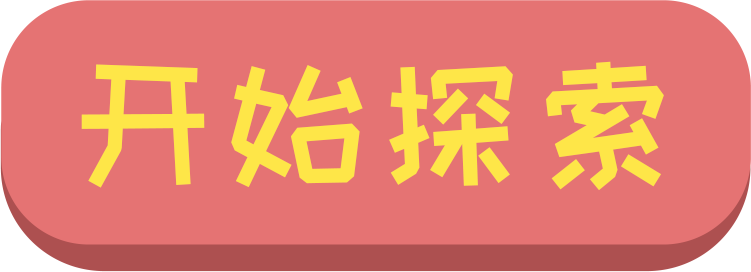
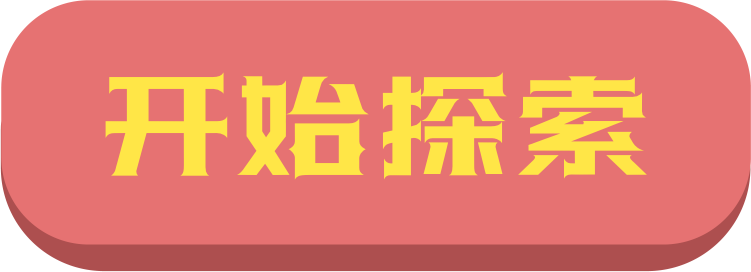
replaced resources

Changed region(s): [[0.0919, 0.2059, 0.8881, 0.7059]]

diff --git a/app.js b/app.js
@@ -179,7 +179,7 @@ eval("__webpack_require__.r(__webpack_exports__);\n/* harmony import */ var erud
 /***/ ((__unused_webpack_module, __webpack_exports__, __webpack_require__) => {
 
 "use strict";
-eval("__webpack_require__.r(__webpack_exports__);\n/* harmony export */ __webpack_require__.d(__webpack_exports__, {\n/* harmony export */   \"default\": () => (__WEBPACK_DEFAULT_EXPORT__)\n/* harmony export */ });\n/* harmony default export */ const __WEBPACK_DEFAULT_EXPORT__ = ({\"countries_bg\": {\"path\": \"./images/3/countries_bg.png\", \"size\": 2533751}, \"countries_flags\": {\"path\": \"./images/3/countries_flags.png\", \"size\": 206600}, \"countries_glow\": {\"path\": \"./images/3/countries_glow.png\", \"size\": 640029}, \"intro_button\": {\"path\": \"./images/1/intro_button.png\", \"size\": 31900}, \"intro_title\": {\"path\": \"./images/1/intro_title.png\", \"size\": 219419}, \"intro_slogan\": {\"path\": \"./images/1/intro_slogan.png\", \"size\": 33302}, \"intro_button_pressed\": {\"path\": \"./images/1/intro_button_pressed.png\", \"size\": 37442}, \"intro_stars\": {\"path\": \"./images/1/intro_stars.png\", \"size\": 35788}, \"share_pattern_screen\": {\"path\": \"./images/5/share_pattern_screen.png\", \"size\": 480034}, \"share_base_header\": {\"path\": \"./images/5/share_base_header.png\", \"size\": 70349}, \"share_top_header\": {\"path\": \"./images/5/share_top_header.png\", \"size\": 91579}, \"share_base\": {\"path\": \"./images/5/share_base.png\", \"size\": 4859}, \"share_flags\": {\"path\": \"./images/5/share_flags.png\", \"size\": 311763}, \"share_top_footer\": {\"path\": \"./images/5/share_top_footer.png\", \"size\": 66921}, \"share_base_footer\": {\"path\": \"./images/5/share_base_footer.png\", \"size\": 57218}, \"bgcolor\": {\"path\": \"./images/0/bgcolor.png\", \"size\": 5241}, \"hex_bold\": {\"path\": \"./images/0/hex_bold.png\", \"size\": 493694}, \"hex_thin\": {\"path\": \"./images/0/hex_thin.png\", \"size\": 223783}, \"glow\": {\"path\": \"./images/0/glow.png\", \"size\": 965977}, \"donebutton_pressed\": {\"path\": \"./images/0/donebutton_pressed.png\", \"size\": 3224}, \"donebutton\": {\"path\": \"./images/0/donebutton.png\", \"size\": 3732}, \"choices_10x10\": {\"path\": \"./images/2/choices_10x10.png\", \"size\": 8870636}, \"choices_header\": {\"path\": \"./images/2/choices_header.png\", \"size\": 57826}, \"choices_hint\": {\"path\": \"./images/2/choices_hint.png\", \"size\": 3302}, \"choices_delete\": {\"path\": \"./images/2/choices_delete.png\", \"size\": 6605}, \"choices_scroll\": {\"path\": \"./images/2/choices_scroll.png\", \"size\": 3182}});\n\n//# sourceURL=webpack://csaegress-h5-app/./app/resource-loader/image_resource_list.js?");
+eval("__webpack_require__.r(__webpack_exports__);\n/* harmony export */ __webpack_require__.d(__webpack_exports__, {\n/* harmony export */   \"default\": () => (__WEBPACK_DEFAULT_EXPORT__)\n/* harmony export */ });\n/* harmony default export */ const __WEBPACK_DEFAULT_EXPORT__ = ({\"countries_bg\": {\"path\": \"./images/3/countries_bg.png\", \"size\": 2533751}, \"countries_flags\": {\"path\": \"./images/3/countries_flags.png\", \"size\": 206600}, \"intro_button\": {\"path\": \"./images/1/intro_button.png\", \"size\": 25341}, \"intro_title\": {\"path\": \"./images/1/intro_title.png\", \"size\": 219419}, \"intro_slogan\": {\"path\": \"./images/1/intro_slogan.png\", \"size\": 12731}, \"intro_button_pressed\": {\"path\": \"./images/1/intro_button_pressed.png\", \"size\": 24249}, \"intro_stars\": {\"path\": \"./images/1/intro_stars.png\", \"size\": 35788}, \"generate_button_pressed\": {\"path\": \"./images/4/generate_button_pressed.png\", \"size\": 23125}, \"generate_button\": {\"path\": \"./images/4/generate_button.png\", \"size\": 26288}, \"share_pattern_screen\": {\"path\": \"./images/5/share_pattern_screen.png\", \"size\": 480034}, \"share_base_header\": {\"path\": \"./images/5/share_base_header.png\", \"size\": 70349}, \"share_top_header\": {\"path\": \"./images/5/share_top_header.png\", \"size\": 91579}, \"share_base\": {\"path\": \"./images/5/share_base.png\", \"size\": 4859}, \"share_flags\": {\"path\": \"./images/5/share_flags.png\", \"size\": 311763}, \"share_top_footer\": {\"path\": \"./images/5/share_top_footer.png\", \"size\": 171083}, \"share_base_footer\": {\"path\": \"./images/5/share_base_footer.png\", \"size\": 27533}, \"bgcolor\": {\"path\": \"./images/0/bgcolor.png\", \"size\": 5241}, \"hex_bold\": {\"path\": \"./images/0/hex_bold.png\", \"size\": 494464}, \"hex_thin\": {\"path\": \"./images/0/hex_thin.png\", \"size\": 167780}, \"icon_glow\": {\"path\": \"./images/0/icon_glow.png\", \"size\": 20673}, \"glow\": {\"path\": \"./images/0/glow.png\", \"size\": 1178024}, \"donebutton_pressed\": {\"path\": \"./images/0/donebutton_pressed.png\", \"size\": 3224}, \"donebutton\": {\"path\": \"./images/0/donebutton.png\", \"size\": 3732}, \"choices_10x10\": {\"path\": \"./images/2/choices_10x10.png\", \"size\": 8870636}, \"choices_header\": {\"path\": \"./images/2/choices_header.png\", \"size\": 57826}, \"choices_hint\": {\"path\": \"./images/2/choices_hint.png\", \"size\": 3302}, \"choices_delete\": {\"path\": \"./images/2/choices_delete.png\", \"size\": 6605}, \"choices_scroll\": {\"path\": \"./images/2/choices_scroll.png\", \"size\": 3182}});\n\n//# sourceURL=webpack://csaegress-h5-app/./app/resource-loader/image_resource_list.js?");
 
 /***/ }),
 
@@ -267,7 +267,7 @@ eval("__webpack_require__.r(__webpack_exports__);\n/* harmony export */ __webpac
 /***/ ((__unused_webpack_module, __webpack_exports__, __webpack_require__) => {
 
 "use strict";
-eval("__webpack_require__.r(__webpack_exports__);\n/* harmony export */ __webpack_require__.d(__webpack_exports__, {\n/* harmony export */   \"default\": () => (__WEBPACK_DEFAULT_EXPORT__)\n/* harmony export */ });\n/* harmony import */ var app_constants_js__WEBPACK_IMPORTED_MODULE_0__ = __webpack_require__(/*! app/constants.js */ \"./app/constants.js\");\n\nconst events = __webpack_require__(/*! events */ \"./node_modules/events/events.js\");\n\n\n\nclass CountryButton extends events.EventEmitter{\n    /*\n     *      |<--size-->|\n     *      +----------+----------+----------+ --|\n     *      |   col 0  |   col 1  |  col 2   |   | size\n     *      +----------+----------+----------+ --|\n     *      |          |          |          |\n     *      +----------+----------+----------+\n     *      |          |          |          |\n     *      +----------+----------+----------+\n     *      |          |          |          |\n     *      +----------+----------+----------+\n     */\n\n    constructor({\n        image_glow,\n        text,\n        x, y, // center of hexagon on a scaled map image\n        size, // length of a side for a hexagon\n        controller, // needed to convert from \"user touch coordinate on screen\" to \"absolute coordinate on scaled image\"\n    }){\n        super();\n\n        this.x0 = x;\n        this.y0 = y;\n        this.text = text;\n        this.size = size;\n        this.controller = controller; // CountriesMenuCanvasController\n        this.image_glow = image_glow;\n\n        const w1 = size * 0.8660254;\n        this.polygon = [\n            [x + w1, y+size/2],\n            [x, y + size],\n            [x - w1, y+size/2],\n            [x - w1, y-size/2],\n            [x, y - size],\n            [x + w1, y-size/2],\n        ];\n\n        this.image_glow_size = (this.size * 2) * 1.3;\n        \n        // If this option is choosen\n        this.choosen = false;\n    }\n\n    draw(ctx){\n        if(!this.choosen) return;\n\n        ctx.drawImage(\n            this.image_glow,\n            this.x0 + this.controller.map_draw_x - this.image_glow_size / 2,\n            this.y0 - this.image_glow_size / 2,\n            this.image_glow_size,\n            this.image_glow_size\n        );\n\n    }\n\n    is_within_area(x, y){\n        // x & y is screen coordinate, the X coordinate must be converted\n        // to image coordinate, by substracting it with the offset of image\n        // left border.\n        // Since the image left border is dragable by user touch, we have to\n        // use the controller's actual value of this offset. \n        x -= this.controller.map_draw_x;\n\n//        console.log(x, y);\n\n        // Special calculation for a hexagon\n        // ray-casting algorithm based on\n        // https://wrf.ecse.rpi.edu/Research/Short_Notes/pnpoly.html/pnpoly.html\n        var inside = false;\n        var vs = this.polygon;\n        for (var i = 0, j = vs.length - 1; i < vs.length; j = i++) {\n            var xi = vs[i][0], yi = vs[i][1];\n            var xj = vs[j][0], yj = vs[j][1];\n            \n            var intersect = ((yi > y) != (yj > y))\n                && (x < (xj - xi) * (y - yi) / (yj - yi) + xi);\n            if (intersect) inside = !inside;\n        }\n        \n        return inside;\n    }\n\n    handle_click(x, y){\n        if(!this.is_within_area(x, y)) return;\n        this.choosen = !this.choosen;\n\n        if(this.choosen){\n            this.emit(\"choosen\", this.text);\n        }\n    }\n\n\n\n}\n\n\n\n\n/* harmony default export */ const __WEBPACK_DEFAULT_EXPORT__ = (CountryButton);\n\n\n//# sourceURL=webpack://csaegress-h5-app/./app/stages/03-countries/CountryButton.js?");
+eval("__webpack_require__.r(__webpack_exports__);\n/* harmony export */ __webpack_require__.d(__webpack_exports__, {\n/* harmony export */   \"default\": () => (__WEBPACK_DEFAULT_EXPORT__)\n/* harmony export */ });\n/* harmony import */ var app_constants_js__WEBPACK_IMPORTED_MODULE_0__ = __webpack_require__(/*! app/constants.js */ \"./app/constants.js\");\n\nconst events = __webpack_require__(/*! events */ \"./node_modules/events/events.js\");\n\n\n\nclass CountryButton extends events.EventEmitter{\n    /*\n     *      |<--size-->|\n     *      +----------+----------+----------+ --|\n     *      |   col 0  |   col 1  |  col 2   |   | size\n     *      +----------+----------+----------+ --|\n     *      |          |          |          |\n     *      +----------+----------+----------+\n     *      |          |          |          |\n     *      +----------+----------+----------+\n     *      |          |          |          |\n     *      +----------+----------+----------+\n     */\n\n    constructor({\n        image_glow,\n        text,\n        x, y, // center of hexagon on a scaled map image\n        size, // length of a side for a hexagon\n        controller, // needed to convert from \"user touch coordinate on screen\" to \"absolute coordinate on scaled image\"\n    }){\n        super();\n\n        this.x0 = x;\n        this.y0 = y;\n        this.text = text;\n        this.size = size;\n        this.controller = controller; // CountriesMenuCanvasController\n        this.image_glow = image_glow;\n\n        const w1 = size * 0.8660254;\n        this.polygon = [\n            [x + w1, y+size/2],\n            [x, y + size],\n            [x - w1, y+size/2],\n            [x - w1, y-size/2],\n            [x, y - size],\n            [x + w1, y-size/2],\n        ];\n\n        this.image_glow_size_h = (this.size * 2) * 1.32;\n        this.image_glow_size_w = \n            this.image_glow_size_h / this.image_glow.height\n            * this.image_glow.width\n        ;\n        \n        // If this option is choosen\n        this.choosen = false;\n    }\n\n    draw(ctx){\n        if(!this.choosen) return;\n\n        ctx.drawImage(\n            this.image_glow,\n            this.x0 + this.controller.map_draw_x - this.image_glow_size_w / 2,\n            this.y0 - this.image_glow_size_h / 2,\n            this.image_glow_size_w,\n            this.image_glow_size_h\n        );\n\n    }\n\n    is_within_area(x, y){\n        // x & y is screen coordinate, the X coordinate must be converted\n        // to image coordinate, by substracting it with the offset of image\n        // left border.\n        // Since the image left border is dragable by user touch, we have to\n        // use the controller's actual value of this offset. \n        x -= this.controller.map_draw_x;\n\n//        console.log(x, y);\n\n        // Special calculation for a hexagon\n        // ray-casting algorithm based on\n        // https://wrf.ecse.rpi.edu/Research/Short_Notes/pnpoly.html/pnpoly.html\n        var inside = false;\n        var vs = this.polygon;\n        for (var i = 0, j = vs.length - 1; i < vs.length; j = i++) {\n            var xi = vs[i][0], yi = vs[i][1];\n            var xj = vs[j][0], yj = vs[j][1];\n            \n            var intersect = ((yi > y) != (yj > y))\n                && (x < (xj - xi) * (y - yi) / (yj - yi) + xi);\n            if (intersect) inside = !inside;\n        }\n        \n        return inside;\n    }\n\n    handle_click(x, y){\n        if(!this.is_within_area(x, y)) return;\n        this.choosen = !this.choosen;\n\n        if(this.choosen){\n            this.emit(\"choosen\", this.text);\n        }\n    }\n\n\n\n}\n\n\n\n\n/* harmony default export */ const __WEBPACK_DEFAULT_EXPORT__ = (CountryButton);\n\n\n//# sourceURL=webpack://csaegress-h5-app/./app/stages/03-countries/CountryButton.js?");
 
 /***/ }),
 
@@ -278,7 +278,7 @@ eval("__webpack_require__.r(__webpack_exports__);\n/* harmony export */ __webpac
 /***/ ((__unused_webpack_module, __webpack_exports__, __webpack_require__) => {
 
 "use strict";
-eval("__webpack_require__.r(__webpack_exports__);\n/* harmony export */ __webpack_require__.d(__webpack_exports__, {\n/* harmony export */   \"default\": () => (__WEBPACK_DEFAULT_EXPORT__)\n/* harmony export */ });\n/* harmony import */ var app_debug_js__WEBPACK_IMPORTED_MODULE_0__ = __webpack_require__(/*! app/debug.js */ \"./app/debug.js\");\n/* harmony import */ var app_content_js__WEBPACK_IMPORTED_MODULE_1__ = __webpack_require__(/*! app/content.js */ \"./app/content.js\");\n/* harmony import */ var app_constants_js__WEBPACK_IMPORTED_MODULE_2__ = __webpack_require__(/*! app/constants.js */ \"./app/constants.js\");\n/* harmony import */ var app_utils__WEBPACK_IMPORTED_MODULE_3__ = __webpack_require__(/*! app/utils */ \"./app/utils/index.js\");\n/* harmony import */ var app_canvascontrol_js__WEBPACK_IMPORTED_MODULE_4__ = __webpack_require__(/*! app/canvascontrol.js */ \"./app/canvascontrol.js\");\n/* harmony import */ var app_canvas_widgets_button_js__WEBPACK_IMPORTED_MODULE_5__ = __webpack_require__(/*! app/canvas-widgets/button.js */ \"./app/canvas-widgets/button.js\");\n/* harmony import */ var _CountryButton_js__WEBPACK_IMPORTED_MODULE_6__ = __webpack_require__(/*! ./CountryButton.js */ \"./app/stages/03-countries/CountryButton.js\");\n/* harmony import */ var _log_js__WEBPACK_IMPORTED_MODULE_7__ = __webpack_require__(/*! ./log.js */ \"./app/stages/03-countries/log.js\");\n/* harmony import */ var app_resource_loader__WEBPACK_IMPORTED_MODULE_8__ = __webpack_require__(/*! app/resource-loader */ \"./app/resource-loader/index.js\");\n\n\n\n\n\n\n\n\n\n\n\n\nconst event_of = __webpack_require__(/*! app/events */ \"./app/events.js\"); \n\n//////////////////////////////////////////////////////////////////////////////\n\n\nclass CountriesMenuCanvasController extends app_canvascontrol_js__WEBPACK_IMPORTED_MODULE_4__[\"default\"] {\n\n    constructor({canvas, images, bgcontroller, callback, callback_done}){\n        super(canvas);\n        const self = this;\n\n        this.canvas = canvas;\n        this.images = images;\n        this.bgcontroller = bgcontroller;\n        this.callback = callback;\n        this.callback_done = callback_done;\n\n        this.logrender = new _log_js__WEBPACK_IMPORTED_MODULE_7__[\"default\"]({ canvas });\n\n        // button ref: horizontal: right, vertical: middle\n        this.button_ref_x = this.canvas.width * 0.563;\n        this.button_ref_y = this.canvas.height * 0.875;\n        this.scale_button = this.canvas.width / this.images[\"button\"].width * 0.25;\n        this.button = new app_canvas_widgets_button_js__WEBPACK_IMPORTED_MODULE_5__[\"default\"]({\n            image: this.images[\"button\"],\n            image_pressed_down: this.images[\"button-down\"],\n            x0: this.button_ref_x - this.scale_button * this.images[\"button\"].width,\n            y0: this.button_ref_y - this.scale_button * this.images[\"button\"].height / 2,\n            x1: this.button_ref_x,\n            y1: this.button_ref_y + this.scale_button * this.images[\"button\"].height / 2,\n        });\n\n        // Determine map size\n        // map image is scaled up or down to fit the height, and its width\n        // is expanded outside the screen\n        this.image_map_scale = this.canvas.height / this.images[\"bg\"].height;\n        this.map_width = this.images[\"bg\"].width * this.image_map_scale; // > screen width\n\n        this.map_draw_x = this.canvas.width / 2 - this.map_width / 2;\n\n\n        // initial country buttons\n        this.country_buttons = [];\n        for(let country_name in app_content_js__WEBPACK_IMPORTED_MODULE_1__.countries){\n            let country_button = new _CountryButton_js__WEBPACK_IMPORTED_MODULE_6__[\"default\"]({\n                image_glow: this.images[\"glow\"],\n                controller: this,\n                text: country_name,\n                x: app_content_js__WEBPACK_IMPORTED_MODULE_1__.countries[country_name][0] * this.image_map_scale,\n                y: app_content_js__WEBPACK_IMPORTED_MODULE_1__.countries[country_name][1] * this.image_map_scale,\n                size: app_constants_js__WEBPACK_IMPORTED_MODULE_2__[\"default\"].COUNTRY_HEXAGON_SIZE * this.image_map_scale,\n            });\n            country_button.on(\"choosen\", (()=>{ return function(){\n                self.logrender.log(`去过${country_name.slice(0,-2)}`);\n            } })());\n            this.country_buttons.push(country_button);\n        }\n\n    }\n\n    _calc_alpha(dt){\n        // Calculate alpha used for country map background, and foreground\n        if(undefined === this.alpha_t_count) this.alpha_t_count = 0;\n\n        const COUNTRY_MAP_TRANSITION_T = app_constants_js__WEBPACK_IMPORTED_MODULE_2__[\"default\"].BACKGROUND_SWITCH_DURATION;\n        const FOREGROUND_TRANSITION_T =  500;\n\n        let t1 = COUNTRY_MAP_TRANSITION_T,\n            t2 = COUNTRY_MAP_TRANSITION_T + FOREGROUND_TRANSITION_T;\n        let t = this.alpha_t_count;\n\n        this.alpha_t_count += dt;\n\n        /*\n        if(t <= t1){\n            return { map_alpha: t / t1, widget_alpha: 0 };\n        } else if (t <= t2){\n            return { map_alpha: 1, widget_alpha: (t - t1) / (t2 - t1) };\n        } else {\n            return { map_alpha: 1, widget_alpha: 1};\n        }*/\n        if(t <= t1){\n            return { map_alpha: t / t1, widget_alpha: t / t1 };\n        } else {\n            return { map_alpha: 1, widget_alpha: 1};\n        }\n    }\n\n    _drag_map(delta){\n\n        const low_bound = this.canvas.width - this.map_width;\n        const upper_bound = 0;\n        \n        this.map_draw_x += delta;\n        if(this.map_draw_x < low_bound){\n            this.map_draw_x = low_bound;\n        }\n        if(this.map_draw_x > upper_bound){\n            this.map_draw_x = upper_bound;\n        }\n\n    }\n\n    _draw_bg(dt){ // bgcontroller color bar\n        this.ctx.drawImage(\n            this.bgcontroller.bgimg,\n            0,  // sx = 0\n            this.bgcontroller.get_y(), // sy = whatever\n            this.bgcontroller.bgimg.width, // sWidth\n            this.bgcontroller.unit_height, // sHeight\n            0,  // dx = 0\n            0,  // dy = 0\n            this.canvas.width,\n            this.canvas.height\n        ); // global background\n    }\n\n    _draw_fg(dt){\n\n        let { map_alpha, widget_alpha } = this._calc_alpha(dt); \n\n        // draw country map\n        this.ctx.globalAlpha = map_alpha;\n        this.ctx.drawImage(\n            this.images[\"bg\"],\n            0, 0, this.images[\"bg\"].width, this.images[\"bg\"].height,\n            this.map_draw_x,\n            0, // sy\n            this.map_width,\n            this.canvas.height\n        );\n\n        // draw country buttons\n        this.ctx.globalAlpha = widget_alpha;\n        this.country_buttons.forEach((cb)=>{\n            cb.draw(this.ctx);\n        });\n\n        this.ctx.drawImage(\n            this.images[\"flags\"],\n            0, 0, this.images[\"flags\"].width, this.images[\"flags\"].height,\n            this.map_draw_x,\n            0, // sy\n            this.map_width,\n            this.canvas.height\n        );\n\n        // draw log\n        this.logrender.draw();\n\n        //draw button\n        this.button.draw(this.ctx);\n\n\n\n        this.ctx.globalAlpha = 1;\n    }\n\n    animation_frame(t, dt){\n        // clear whole canvas\n        this.ctx_clearall();\n        this.ctx_reset_filter();\n        // draw bg\n        this._draw_bg(dt);\n        // draw each icon\n        /*this.options_instances.forEach((oi)=>{\n            oi.next({ delta_y0: this.delta_y0, t, dt });\n        });*/\n        \n        this._draw_fg(dt);\n\n        return true;\n    }\n\n    bind_events(){\n        const ec = event_of(\"canvas\");\n\n        function on_click(x, y){\n            // handle a touch-click or mouseclick event\n            this.country_buttons.forEach((cb)=>cb.handle_click(x, y));\n            let selected_countries = this.country_buttons\n                .filter((cb)=>cb.choosen)\n                .map((cb)=>cb.text)\n            ;\n            try{\n                this.callback(selected_countries);\n            } catch(e){\n            }\n        }\n\n        let touch_tracker = null;\n\n        ec.on(\"touchstart\", (e)=>{\n//            console.log(\"touchstart\", e);\n            \n            touch_tracker = new app_utils__WEBPACK_IMPORTED_MODULE_3__[\"default\"].CanvasGestureTracker();\n            for(let i =0; i<e.changedTouches.length; i++){\n                let t = e.changedTouches[i];\n                touch_tracker.register_down(\n                    t.clientX * app_constants_js__WEBPACK_IMPORTED_MODULE_2__[\"default\"].SCALE_FACTOR,\n                    t.clientY * app_constants_js__WEBPACK_IMPORTED_MODULE_2__[\"default\"].SCALE_FACTOR\n                );\n            }\n\n            e.preventDefault();\n        });\n\n        ec.on(\"touchend\", (e)=>{\n//            console.log(\"touchend\", e.changedTouches);\n            if(!touch_tracker) return;\n            for(let i =0; i<e.changedTouches.length; i++){\n                let t = e.changedTouches[i];\n                touch_tracker.register_up(\n                    t.clientX * app_constants_js__WEBPACK_IMPORTED_MODULE_2__[\"default\"].SCALE_FACTOR,\n                    t.clientY * app_constants_js__WEBPACK_IMPORTED_MODULE_2__[\"default\"].SCALE_FACTOR\n                );\n            };\n\n            let { duration, distance, delta_t } = touch_tracker.result();\n            let touch = e.changedTouches[0];\n\n            if(Math.abs(distance / this.canvas.width) < 0.05){\n                console.log(\"touch press triggered\");\n                on_click.call(\n                    this,\n                    touch.clientX * app_constants_js__WEBPACK_IMPORTED_MODULE_2__[\"default\"].SCALE_FACTOR,\n                    touch.clientY * app_constants_js__WEBPACK_IMPORTED_MODULE_2__[\"default\"].SCALE_FACTOR\n                );\n            }\n\n            touch_tracker = null;\n            e.preventDefault();\n        });\n\n        ec.on(\"touchmove\", (e)=>{\n//            console.log(\"touchmove\", e);\n            if(!touch_tracker) return;\n\n            for(let i =0; i<e.changedTouches.length; i++){\n                let t = e.changedTouches[i];\n                let { delta_x, delta_y, delta_t } = touch_tracker.register_move(\n                    t.clientX * app_constants_js__WEBPACK_IMPORTED_MODULE_2__[\"default\"].SCALE_FACTOR,\n                    t.clientY * app_constants_js__WEBPACK_IMPORTED_MODULE_2__[\"default\"].SCALE_FACTOR\n                );\n                this._drag_map(-delta_x);\n            };\n            e.preventDefault();\n        });\n        \n\n\n        this.button.on(\"pressed\", (e)=>{\n            this.callback_done(\n                this.country_buttons.filter((b)=>b.choosen).map((b)=>b.text));\n            e.preventDefault();\n            e.stopPropagation();\n        });\n\n\n    }\n}\n\n\n\n\n\n\n//////////////////////////////////////////////////////////////////////////////\n\nasync function interaction({\n    canvas,\n    callback,\n    callback_done,\n    bgcontroller,\n    app\n}){\n   \n    const images = {\n        \"bg\": await (0,app_resource_loader__WEBPACK_IMPORTED_MODULE_8__.get_image)(\"countries_bg\"),\n        \"flags\": await (0,app_resource_loader__WEBPACK_IMPORTED_MODULE_8__.get_image)(\"countries_flags\"),\n        \"glow\": await (0,app_resource_loader__WEBPACK_IMPORTED_MODULE_8__.get_image)(\"countries_glow\"),\n        \"button\": await (0,app_resource_loader__WEBPACK_IMPORTED_MODULE_8__.get_image)(\"donebutton\"),\n        \"button-down\": await (0,app_resource_loader__WEBPACK_IMPORTED_MODULE_8__.get_image)(\"donebutton_pressed\"),\n    };\n\n    const canvascontrol = new CountriesMenuCanvasController({\n        canvas,\n        images,\n        bgcontroller,\n        callback,\n        callback_done,\n    });\n    canvascontrol.start_animation();\n\n///////////////\n    if((0,app_debug_js__WEBPACK_IMPORTED_MODULE_0__[\"default\"])()){\n        if((0,app_debug_js__WEBPACK_IMPORTED_MODULE_0__[\"default\"])('stage') && (0,app_debug_js__WEBPACK_IMPORTED_MODULE_0__[\"default\"])('stage') > 3){\n            callback_done();\n        }\n    }\n//////////////\n    \n    await app_utils__WEBPACK_IMPORTED_MODULE_3__[\"default\"].until(()=>app.countries_done === true);\n\n    bgcontroller.scroll_to_stage(3);\n    await canvascontrol.destroy();\n\n}\n\n\n\n\n//////////////////////////////////////////////////////////////////////////////\n/* harmony default export */ const __WEBPACK_DEFAULT_EXPORT__ = ({\n    interaction,\n});\n\n\n//# sourceURL=webpack://csaegress-h5-app/./app/stages/03-countries/index.js?");
+eval("__webpack_require__.r(__webpack_exports__);\n/* harmony export */ __webpack_require__.d(__webpack_exports__, {\n/* harmony export */   \"default\": () => (__WEBPACK_DEFAULT_EXPORT__)\n/* harmony export */ });\n/* harmony import */ var app_debug_js__WEBPACK_IMPORTED_MODULE_0__ = __webpack_require__(/*! app/debug.js */ \"./app/debug.js\");\n/* harmony import */ var app_content_js__WEBPACK_IMPORTED_MODULE_1__ = __webpack_require__(/*! app/content.js */ \"./app/content.js\");\n/* harmony import */ var app_constants_js__WEBPACK_IMPORTED_MODULE_2__ = __webpack_require__(/*! app/constants.js */ \"./app/constants.js\");\n/* harmony import */ var app_utils__WEBPACK_IMPORTED_MODULE_3__ = __webpack_require__(/*! app/utils */ \"./app/utils/index.js\");\n/* harmony import */ var app_canvascontrol_js__WEBPACK_IMPORTED_MODULE_4__ = __webpack_require__(/*! app/canvascontrol.js */ \"./app/canvascontrol.js\");\n/* harmony import */ var app_canvas_widgets_button_js__WEBPACK_IMPORTED_MODULE_5__ = __webpack_require__(/*! app/canvas-widgets/button.js */ \"./app/canvas-widgets/button.js\");\n/* harmony import */ var _CountryButton_js__WEBPACK_IMPORTED_MODULE_6__ = __webpack_require__(/*! ./CountryButton.js */ \"./app/stages/03-countries/CountryButton.js\");\n/* harmony import */ var _log_js__WEBPACK_IMPORTED_MODULE_7__ = __webpack_require__(/*! ./log.js */ \"./app/stages/03-countries/log.js\");\n/* harmony import */ var app_resource_loader__WEBPACK_IMPORTED_MODULE_8__ = __webpack_require__(/*! app/resource-loader */ \"./app/resource-loader/index.js\");\n\n\n\n\n\n\n\n\n\n\n\n\nconst event_of = __webpack_require__(/*! app/events */ \"./app/events.js\"); \n\n//////////////////////////////////////////////////////////////////////////////\n\n\nclass CountriesMenuCanvasController extends app_canvascontrol_js__WEBPACK_IMPORTED_MODULE_4__[\"default\"] {\n\n    constructor({canvas, images, bgcontroller, callback, callback_done}){\n        super(canvas);\n        const self = this;\n\n        this.canvas = canvas;\n        this.images = images;\n        this.bgcontroller = bgcontroller;\n        this.callback = callback;\n        this.callback_done = callback_done;\n\n        this.logrender = new _log_js__WEBPACK_IMPORTED_MODULE_7__[\"default\"]({ canvas });\n\n        // button ref: horizontal: right, vertical: middle\n        this.button_ref_x = this.canvas.width * 0.563;\n        this.button_ref_y = this.canvas.height * 0.875;\n        this.scale_button = this.canvas.width / this.images[\"button\"].width * 0.25;\n        this.button = new app_canvas_widgets_button_js__WEBPACK_IMPORTED_MODULE_5__[\"default\"]({\n            image: this.images[\"button\"],\n            image_pressed_down: this.images[\"button-down\"],\n            x0: this.button_ref_x - this.scale_button * this.images[\"button\"].width,\n            y0: this.button_ref_y - this.scale_button * this.images[\"button\"].height / 2,\n            x1: this.button_ref_x,\n            y1: this.button_ref_y + this.scale_button * this.images[\"button\"].height / 2,\n        });\n\n        // Determine map size\n        // map image is scaled up or down to fit the height, and its width\n        // is expanded outside the screen\n        this.image_map_scale = this.canvas.height / this.images[\"bg\"].height;\n        this.map_width = this.images[\"bg\"].width * this.image_map_scale; // > screen width\n\n        this.map_draw_x = this.canvas.width / 2 - this.map_width / 2;\n\n\n        // initial country buttons\n        this.country_buttons = [];\n        for(let country_name in app_content_js__WEBPACK_IMPORTED_MODULE_1__.countries){\n            let country_button = new _CountryButton_js__WEBPACK_IMPORTED_MODULE_6__[\"default\"]({\n                image_glow: this.images[\"glow\"],\n                controller: this,\n                text: country_name,\n                x: app_content_js__WEBPACK_IMPORTED_MODULE_1__.countries[country_name][0] * this.image_map_scale,\n                y: app_content_js__WEBPACK_IMPORTED_MODULE_1__.countries[country_name][1] * this.image_map_scale,\n                size: app_constants_js__WEBPACK_IMPORTED_MODULE_2__[\"default\"].COUNTRY_HEXAGON_SIZE * this.image_map_scale,\n            });\n            country_button.on(\"choosen\", (()=>{ return function(){\n                self.logrender.log(`去过${country_name.slice(0,-2)}`);\n            } })());\n            this.country_buttons.push(country_button);\n        }\n\n    }\n\n    _calc_alpha(dt){\n        // Calculate alpha used for country map background, and foreground\n        if(undefined === this.alpha_t_count) this.alpha_t_count = 0;\n\n        const COUNTRY_MAP_TRANSITION_T = app_constants_js__WEBPACK_IMPORTED_MODULE_2__[\"default\"].BACKGROUND_SWITCH_DURATION;\n        const FOREGROUND_TRANSITION_T =  500;\n\n        let t1 = COUNTRY_MAP_TRANSITION_T,\n            t2 = COUNTRY_MAP_TRANSITION_T + FOREGROUND_TRANSITION_T;\n        let t = this.alpha_t_count;\n\n        this.alpha_t_count += dt;\n\n        /*\n        if(t <= t1){\n            return { map_alpha: t / t1, widget_alpha: 0 };\n        } else if (t <= t2){\n            return { map_alpha: 1, widget_alpha: (t - t1) / (t2 - t1) };\n        } else {\n            return { map_alpha: 1, widget_alpha: 1};\n        }*/\n        if(t <= t1){\n            return { map_alpha: t / t1, widget_alpha: t / t1 };\n        } else {\n            return { map_alpha: 1, widget_alpha: 1};\n        }\n    }\n\n    _drag_map(delta){\n\n        const low_bound = this.canvas.width - this.map_width;\n        const upper_bound = 0;\n        \n        this.map_draw_x += delta;\n        if(this.map_draw_x < low_bound){\n            this.map_draw_x = low_bound;\n        }\n        if(this.map_draw_x > upper_bound){\n            this.map_draw_x = upper_bound;\n        }\n\n    }\n\n    _draw_bg(dt){ // bgcontroller color bar\n        this.ctx.drawImage(\n            this.bgcontroller.bgimg,\n            0,  // sx = 0\n            this.bgcontroller.get_y(), // sy = whatever\n            this.bgcontroller.bgimg.width, // sWidth\n            this.bgcontroller.unit_height, // sHeight\n            0,  // dx = 0\n            0,  // dy = 0\n            this.canvas.width,\n            this.canvas.height\n        ); // global background\n    }\n\n    _draw_fg(dt){\n\n        let { map_alpha, widget_alpha } = this._calc_alpha(dt); \n\n        // draw country map\n        this.ctx.globalAlpha = map_alpha;\n        this.ctx.drawImage(\n            this.images[\"bg\"],\n            0, 0, this.images[\"bg\"].width, this.images[\"bg\"].height,\n            this.map_draw_x,\n            0, // sy\n            this.map_width,\n            this.canvas.height\n        );\n\n        // draw country buttons\n        this.ctx.globalAlpha = widget_alpha;\n        this.country_buttons.forEach((cb)=>{\n            cb.draw(this.ctx);\n        });\n\n        this.ctx.drawImage(\n            this.images[\"flags\"],\n            0, 0, this.images[\"flags\"].width, this.images[\"flags\"].height,\n            this.map_draw_x,\n            0, // sy\n            this.map_width,\n            this.canvas.height\n        );\n\n        // draw log\n        this.logrender.draw();\n\n        //draw button\n        this.button.draw(this.ctx);\n\n\n\n        this.ctx.globalAlpha = 1;\n    }\n\n    animation_frame(t, dt){\n        // clear whole canvas\n        this.ctx_clearall();\n        this.ctx_reset_filter();\n        // draw bg\n        this._draw_bg(dt);\n        // draw each icon\n        /*this.options_instances.forEach((oi)=>{\n            oi.next({ delta_y0: this.delta_y0, t, dt });\n        });*/\n        \n        this._draw_fg(dt);\n\n        return true;\n    }\n\n    bind_events(){\n        const ec = event_of(\"canvas\");\n\n        function on_click(x, y){\n            // handle a touch-click or mouseclick event\n            this.country_buttons.forEach((cb)=>cb.handle_click(x, y));\n            let selected_countries = this.country_buttons\n                .filter((cb)=>cb.choosen)\n                .map((cb)=>cb.text)\n            ;\n            try{\n                this.callback(selected_countries);\n            } catch(e){\n            }\n        }\n\n        let touch_tracker = null;\n\n        ec.on(\"touchstart\", (e)=>{\n//            console.log(\"touchstart\", e);\n            \n            touch_tracker = new app_utils__WEBPACK_IMPORTED_MODULE_3__[\"default\"].CanvasGestureTracker();\n            for(let i =0; i<e.changedTouches.length; i++){\n                let t = e.changedTouches[i];\n                touch_tracker.register_down(\n                    t.clientX * app_constants_js__WEBPACK_IMPORTED_MODULE_2__[\"default\"].SCALE_FACTOR,\n                    t.clientY * app_constants_js__WEBPACK_IMPORTED_MODULE_2__[\"default\"].SCALE_FACTOR\n                );\n            }\n\n            e.preventDefault();\n        });\n\n        ec.on(\"touchend\", (e)=>{\n//            console.log(\"touchend\", e.changedTouches);\n            if(!touch_tracker) return;\n            for(let i =0; i<e.changedTouches.length; i++){\n                let t = e.changedTouches[i];\n                touch_tracker.register_up(\n                    t.clientX * app_constants_js__WEBPACK_IMPORTED_MODULE_2__[\"default\"].SCALE_FACTOR,\n                    t.clientY * app_constants_js__WEBPACK_IMPORTED_MODULE_2__[\"default\"].SCALE_FACTOR\n                );\n            };\n\n            let { duration, distance, delta_t } = touch_tracker.result();\n            let touch = e.changedTouches[0];\n\n            if(Math.abs(distance / this.canvas.width) < 0.05){\n                console.log(\"touch press triggered\");\n                on_click.call(\n                    this,\n                    touch.clientX * app_constants_js__WEBPACK_IMPORTED_MODULE_2__[\"default\"].SCALE_FACTOR,\n                    touch.clientY * app_constants_js__WEBPACK_IMPORTED_MODULE_2__[\"default\"].SCALE_FACTOR\n                );\n            }\n\n            touch_tracker = null;\n            e.preventDefault();\n        });\n\n        ec.on(\"touchmove\", (e)=>{\n//            console.log(\"touchmove\", e);\n            if(!touch_tracker) return;\n\n            for(let i =0; i<e.changedTouches.length; i++){\n                let t = e.changedTouches[i];\n                let { delta_x, delta_y, delta_t } = touch_tracker.register_move(\n                    t.clientX * app_constants_js__WEBPACK_IMPORTED_MODULE_2__[\"default\"].SCALE_FACTOR,\n                    t.clientY * app_constants_js__WEBPACK_IMPORTED_MODULE_2__[\"default\"].SCALE_FACTOR\n                );\n                this._drag_map(-delta_x);\n            };\n            e.preventDefault();\n        });\n        \n\n\n        this.button.on(\"pressed\", (e)=>{\n            this.callback_done(\n                this.country_buttons.filter((b)=>b.choosen).map((b)=>b.text));\n            e.preventDefault();\n            e.stopPropagation();\n        });\n\n\n    }\n}\n\n\n\n\n\n\n//////////////////////////////////////////////////////////////////////////////\n\nasync function interaction({\n    canvas,\n    callback,\n    callback_done,\n    bgcontroller,\n    app\n}){\n   \n    const images = {\n        \"bg\": await (0,app_resource_loader__WEBPACK_IMPORTED_MODULE_8__.get_image)(\"countries_bg\"),\n        \"flags\": await (0,app_resource_loader__WEBPACK_IMPORTED_MODULE_8__.get_image)(\"countries_flags\"),\n        \"glow\": await (0,app_resource_loader__WEBPACK_IMPORTED_MODULE_8__.get_image)(\"icon_glow\"),\n        \"button\": await (0,app_resource_loader__WEBPACK_IMPORTED_MODULE_8__.get_image)(\"donebutton\"),\n        \"button-down\": await (0,app_resource_loader__WEBPACK_IMPORTED_MODULE_8__.get_image)(\"donebutton_pressed\"),\n    };\n\n    const canvascontrol = new CountriesMenuCanvasController({\n        canvas,\n        images,\n        bgcontroller,\n        callback,\n        callback_done,\n    });\n    canvascontrol.start_animation();\n\n///////////////\n    if((0,app_debug_js__WEBPACK_IMPORTED_MODULE_0__[\"default\"])()){\n        if((0,app_debug_js__WEBPACK_IMPORTED_MODULE_0__[\"default\"])('stage') && (0,app_debug_js__WEBPACK_IMPORTED_MODULE_0__[\"default\"])('stage') > 3){\n            callback_done();\n        }\n    }\n//////////////\n    \n    await app_utils__WEBPACK_IMPORTED_MODULE_3__[\"default\"].until(()=>app.countries_done === true);\n\n    bgcontroller.scroll_to_stage(3);\n    await canvascontrol.destroy();\n\n}\n\n\n\n\n//////////////////////////////////////////////////////////////////////////////\n/* harmony default export */ const __WEBPACK_DEFAULT_EXPORT__ = ({\n    interaction,\n});\n\n\n//# sourceURL=webpack://csaegress-h5-app/./app/stages/03-countries/index.js?");
 
 /***/ }),
 

diff --git a/app/resource-loader/image_resource_list.js b/app/resource-loader/image_resource_list.js
@@ -1,1 +1,1 @@
-export default {"countries_bg": {"path": "./images/3/countries_bg.png", "size": 2533751}, "countries_flags": {"path": "./images/3/countries_flags.png", "size": 206600}, "countries_glow": {"path": "./images/3/countries_glow.png", "size": 640029}, "intro_button": {"path": "./images/1/intro_button.png", "size": 31900}, "intro_title": {"path": "./images/1/intro_title.png", "size": 219419}, "intro_slogan": {"path": "./images/1/intro_slogan.png", "size": 33302}, "intro_button_pressed": {"path": "./images/1/intro_button_pressed.png", "size": 37442}, "intro_stars": {"path": "./images/1/intro_stars.png", "size": 35788}, "share_pattern_screen": {"path": "./images/5/share_pattern_screen.png", "size": 480034}, "share_base_header": {"path": "./images/5/share_base_header.png", "size": 70349}, "share_top_header": {"path": "./images/5/share_top_header.png", "size": 91579}, "share_base": {"path": "./images/5/share_base.png", "size": 4859}, "share_flags": {"path": "./images/5/share_flags.png", "size": 311763}, "share_top_footer": {"path": "./images/5/share_top_footer.png", "size": 66921}, "share_base_footer": {"path": "./images/5/share_base_footer.png", "size": 57218}, "bgcolor": {"path": "./images/0/bgcolor.png", "size": 5241}, "hex_bold": {"path": "./images/0/hex_bold.png", "size": 493694}, "hex_thin": {"path": "./images/0/hex_thin.png", "size": 223783}, "glow": {"path": "./images/0/glow.png", "size": 965977}, "donebutton_pressed": {"path": "./images/0/donebutton_pressed.png", "size": 3224}, "donebutton": {"path": "./images/0/donebutton.png", "size": 3732}, "choices_10x10": {"path": "./images/2/choices_10x10.png", "size": 8870636}, "choices_header": {"path": "./images/2/choices_header.png", "size": 57826}, "choices_hint": {"path": "./images/2/choices_hint.png", "size": 3302}, "choices_delete": {"path": "./images/2/choices_delete.png", "size": 6605}, "choices_scroll": {"path": "./images/2/choices_scroll.png", "size": 3182}};
+export default {"countries_bg": {"path": "./images/3/countries_bg.png", "size": 2533751}, "countries_flags": {"path": "./images/3/countries_flags.png", "size": 206600}, "intro_button": {"path": "./images/1/intro_button.png", "size": 25341}, "intro_title": {"path": "./images/1/intro_title.png", "size": 219419}, "intro_slogan": {"path": "./images/1/intro_slogan.png", "size": 12731}, "intro_button_pressed": {"path": "./images/1/intro_button_pressed.png", "size": 24249}, "intro_stars": {"path": "./images/1/intro_stars.png", "size": 35788}, "generate_button_pressed": {"path": "./images/4/generate_button_pressed.png", "size": 23125}, "generate_button": {"path": "./images/4/generate_button.png", "size": 26288}, "share_pattern_screen": {"path": "./images/5/share_pattern_screen.png", "size": 480034}, "share_base_header": {"path": "./images/5/share_base_header.png", "size": 70349}, "share_top_header": {"path": "./images/5/share_top_header.png", "size": 91579}, "share_base": {"path": "./images/5/share_base.png", "size": 4859}, "share_flags": {"path": "./images/5/share_flags.png", "size": 311763}, "share_top_footer": {"path": "./images/5/share_top_footer.png", "size": 171083}, "share_base_footer": {"path": "./images/5/share_base_footer.png", "size": 27533}, "bgcolor": {"path": "./images/0/bgcolor.png", "size": 5241}, "hex_bold": {"path": "./images/0/hex_bold.png", "size": 494464}, "hex_thin": {"path": "./images/0/hex_thin.png", "size": 167780}, "icon_glow": {"path": "./images/0/icon_glow.png", "size": 20673}, "glow": {"path": "./images/0/glow.png", "size": 1178024}, "donebutton_pressed": {"path": "./images/0/donebutton_pressed.png", "size": 3224}, "donebutton": {"path": "./images/0/donebutton.png", "size": 3732}, "choices_10x10": {"path": "./images/2/choices_10x10.png", "size": 8870636}, "choices_header": {"path": "./images/2/choices_header.png", "size": 57826}, "choices_hint": {"path": "./images/2/choices_hint.png", "size": 3302}, "choices_delete": {"path": "./images/2/choices_delete.png", "size": 6605}, "choices_scroll": {"path": "./images/2/choices_scroll.png", "size": 3182}};

diff --git a/app/stages/03-countries/CountryButton.js b/app/stages/03-countries/CountryButton.js
@@ -43,7 +43,11 @@ class CountryButton extends events.EventEmitter{
             [x + w1, y-size/2],
         ];
 
-        this.image_glow_size = (this.size * 2) * 1.3;
+        this.image_glow_size_h = (this.size * 2) * 1.32;
+        this.image_glow_size_w = 
+            this.image_glow_size_h / this.image_glow.height
+            * this.image_glow.width
+        ;
         
         // If this option is choosen
         this.choosen = false;
@@ -54,10 +58,10 @@ class CountryButton extends events.EventEmitter{
 
         ctx.drawImage(
             this.image_glow,
-            this.x0 + this.controller.map_draw_x - this.image_glow_size / 2,
-            this.y0 - this.image_glow_size / 2,
-            this.image_glow_size,
-            this.image_glow_size
+            this.x0 + this.controller.map_draw_x - this.image_glow_size_w / 2,
+            this.y0 - this.image_glow_size_h / 2,
+            this.image_glow_size_w,
+            this.image_glow_size_h
         );
 
     }

diff --git a/app/stages/03-countries/index.js b/app/stages/03-countries/index.js
@@ -290,7 +290,7 @@ async function interaction({
     const images = {
         "bg": await get_image("countries_bg"),
         "flags": await get_image("countries_flags"),
-        "glow": await get_image("countries_glow"),
+        "glow": await get_image("icon_glow"),
         "button": await get_image("donebutton"),
         "button-down": await get_image("donebutton_pressed"),
     };
